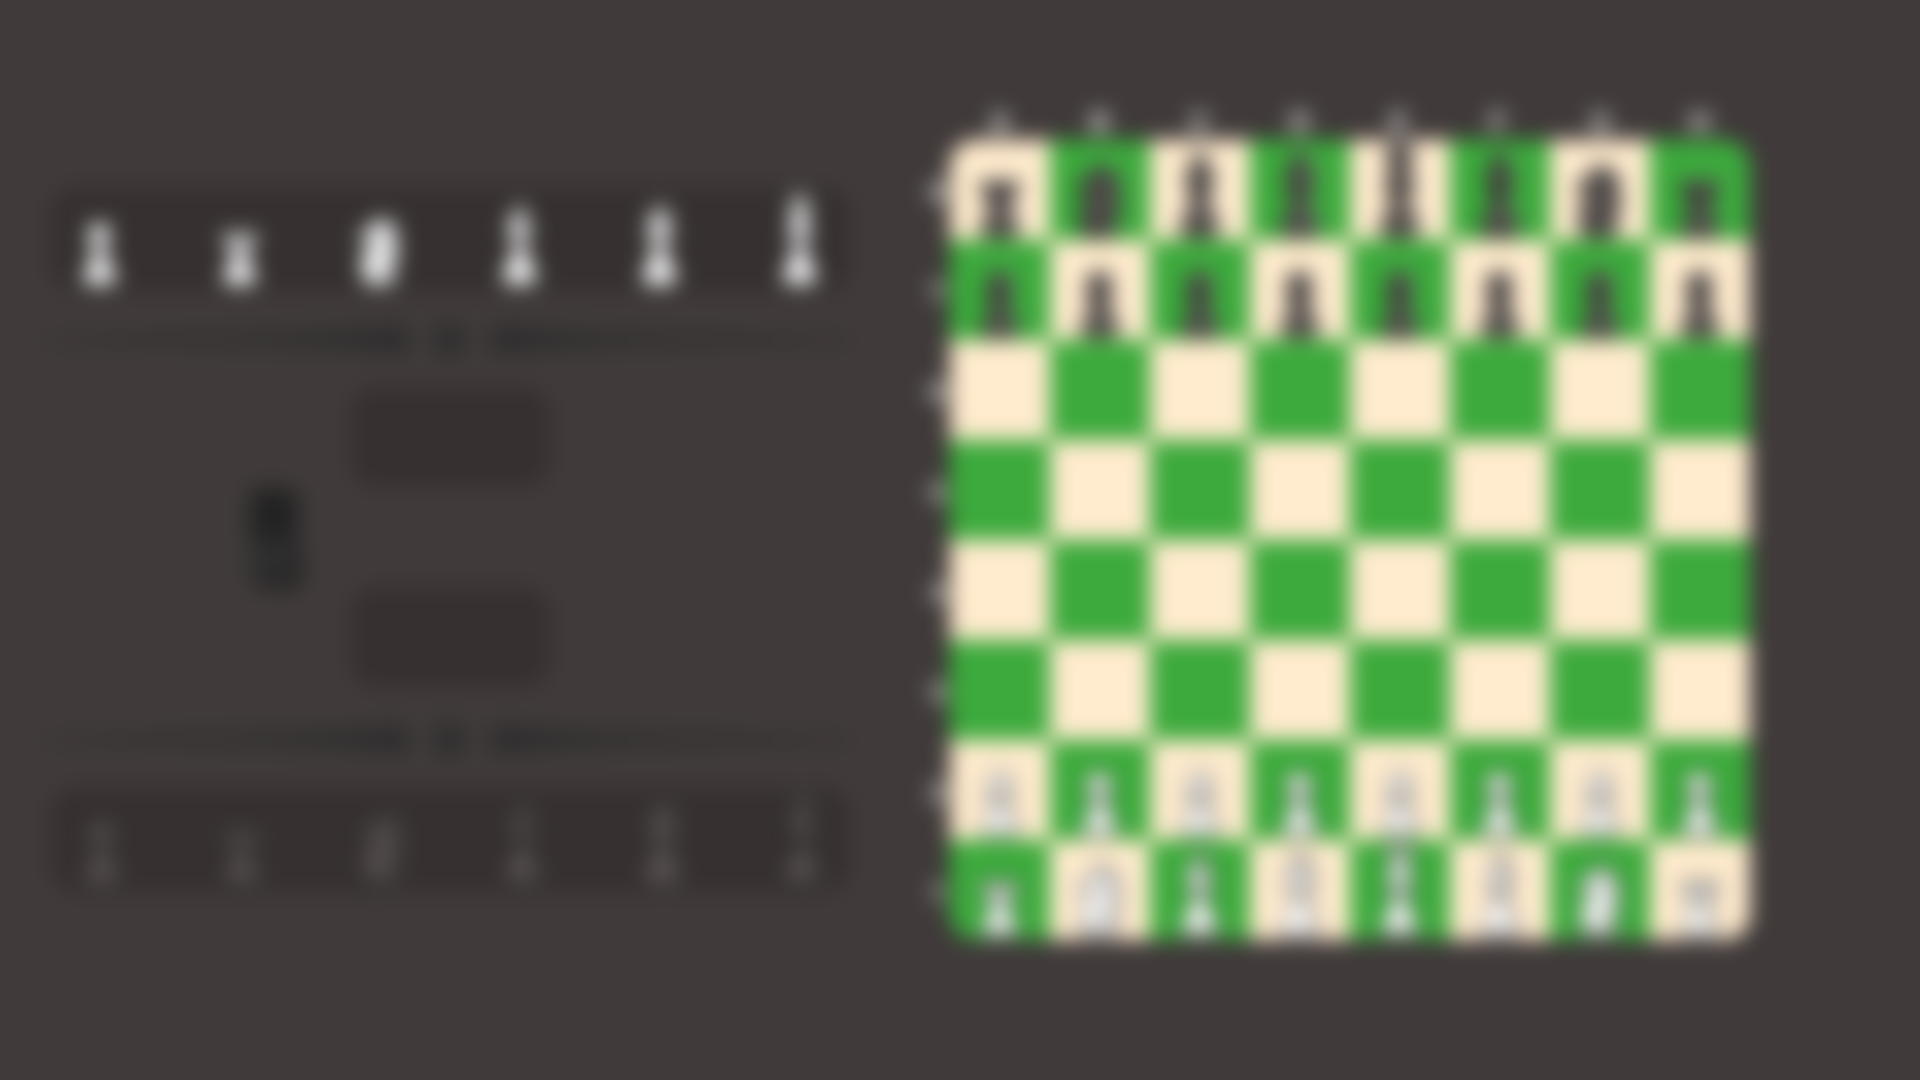
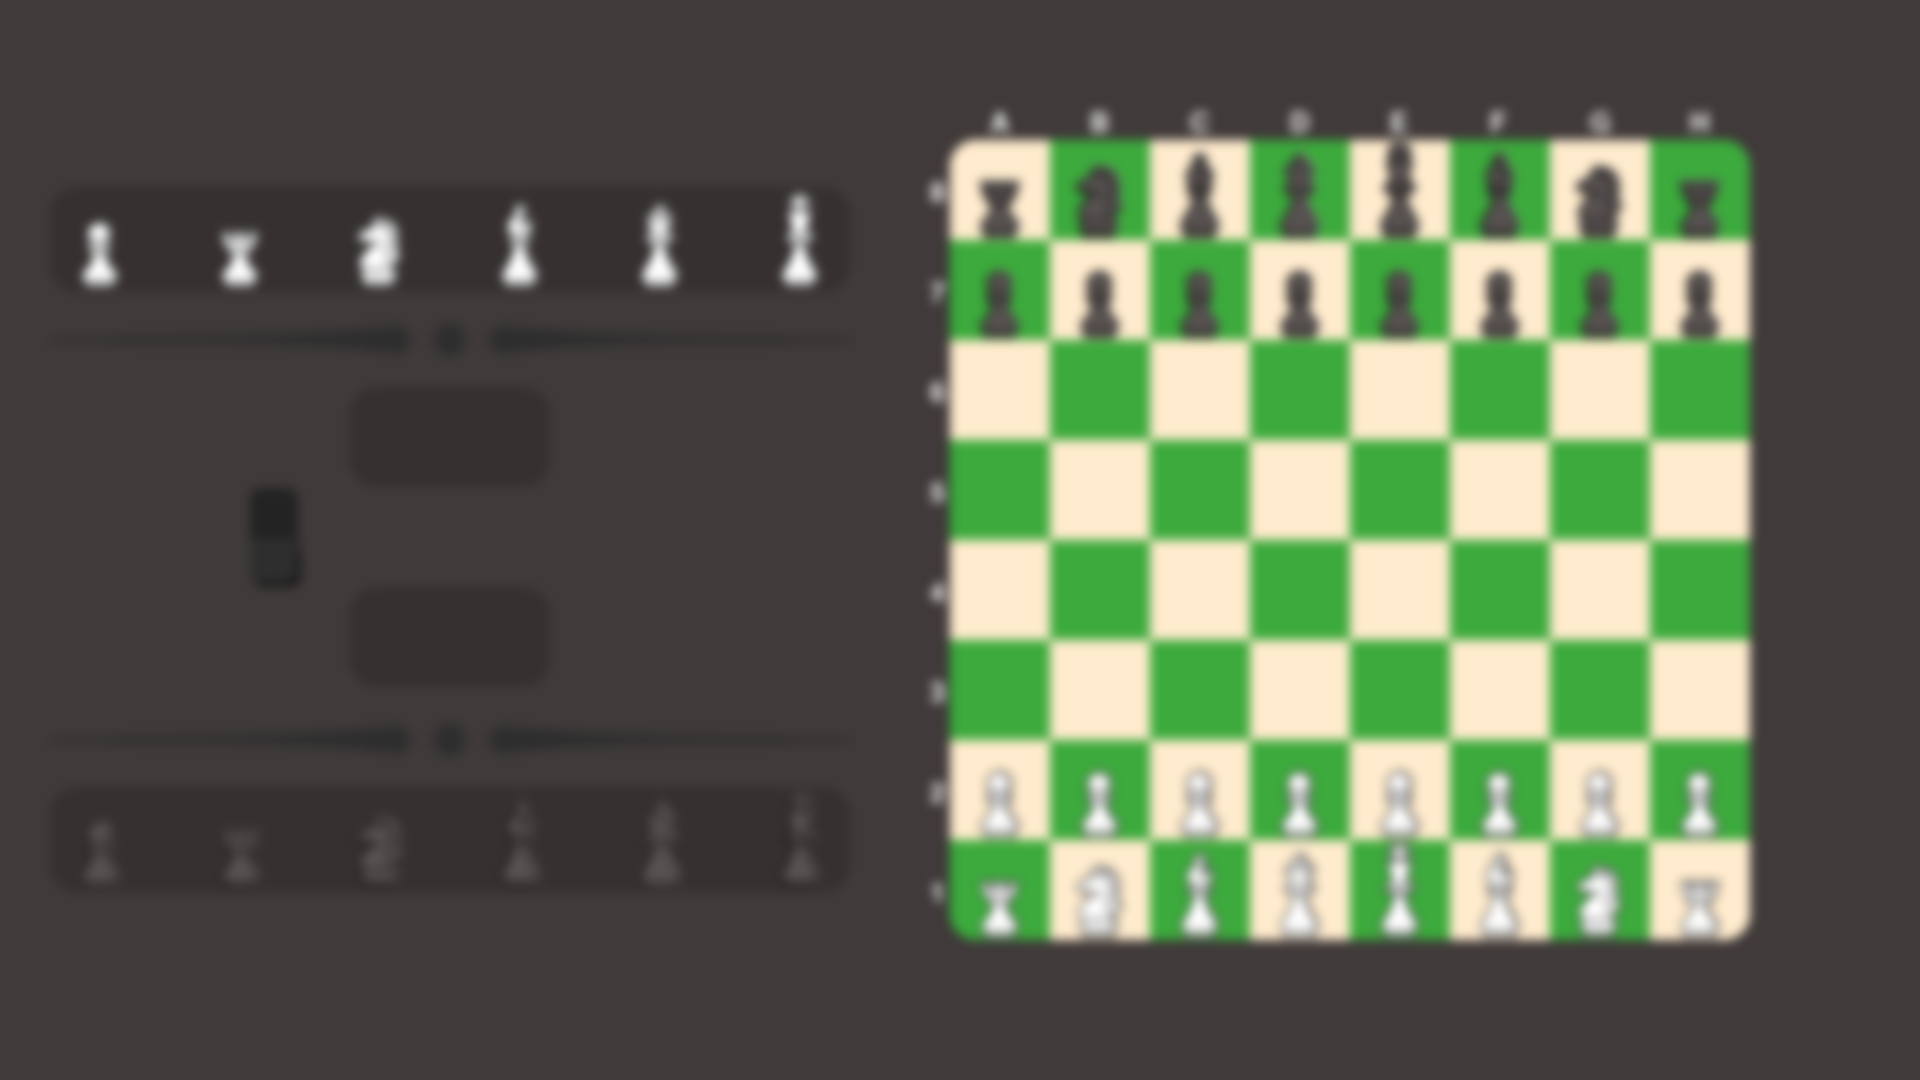
End file coomit

diff --git a/Chess.py b/Chess.py
@@ -2,6 +2,7 @@ import pygame
 from Appear import sprit, fonte, load_image
 import random
 from PIL import Image, ImageFilter
+import time
 
 all_sprites = pygame.sprite.Group()
 
@@ -110,15 +111,16 @@ class Board:
 
     def on_click(self, cell):
         if cell:
-            '''pygame.image.save(screen, "data\\screenshot.png")
+            pygame.image.save(screen, "data\\screenshot.png")
             im = Image.open("data\\screenshot.png")
-            im2 = im.filter(ImageFilter.GaussianBlur(radius=10))
+            im2 = im.filter(ImageFilter.GaussianBlur(radius=5))
             im2.save('data\\screenshot.png')
             im3 = load_image('screenshot.png')
             screen.blit(im3, (0, 0))
             pygame.display.flip()
+            time.sleep(3)
 
-            Peshka(all_sprites)
+            '''Peshka(all_sprites)
             all_sprites.draw(screen)
             all_sprites.update()'''
 
